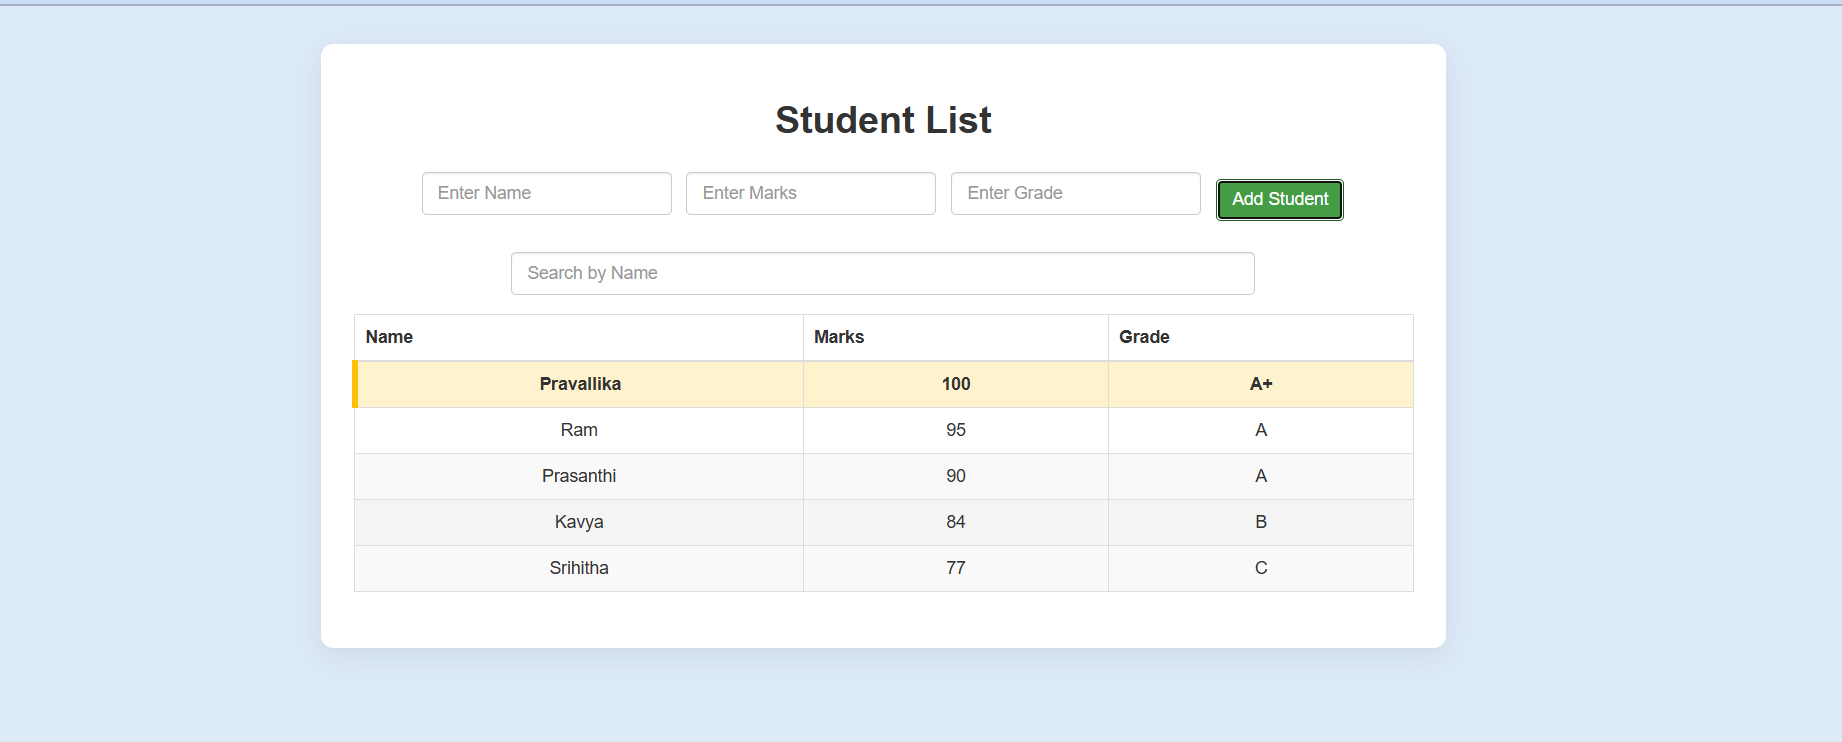
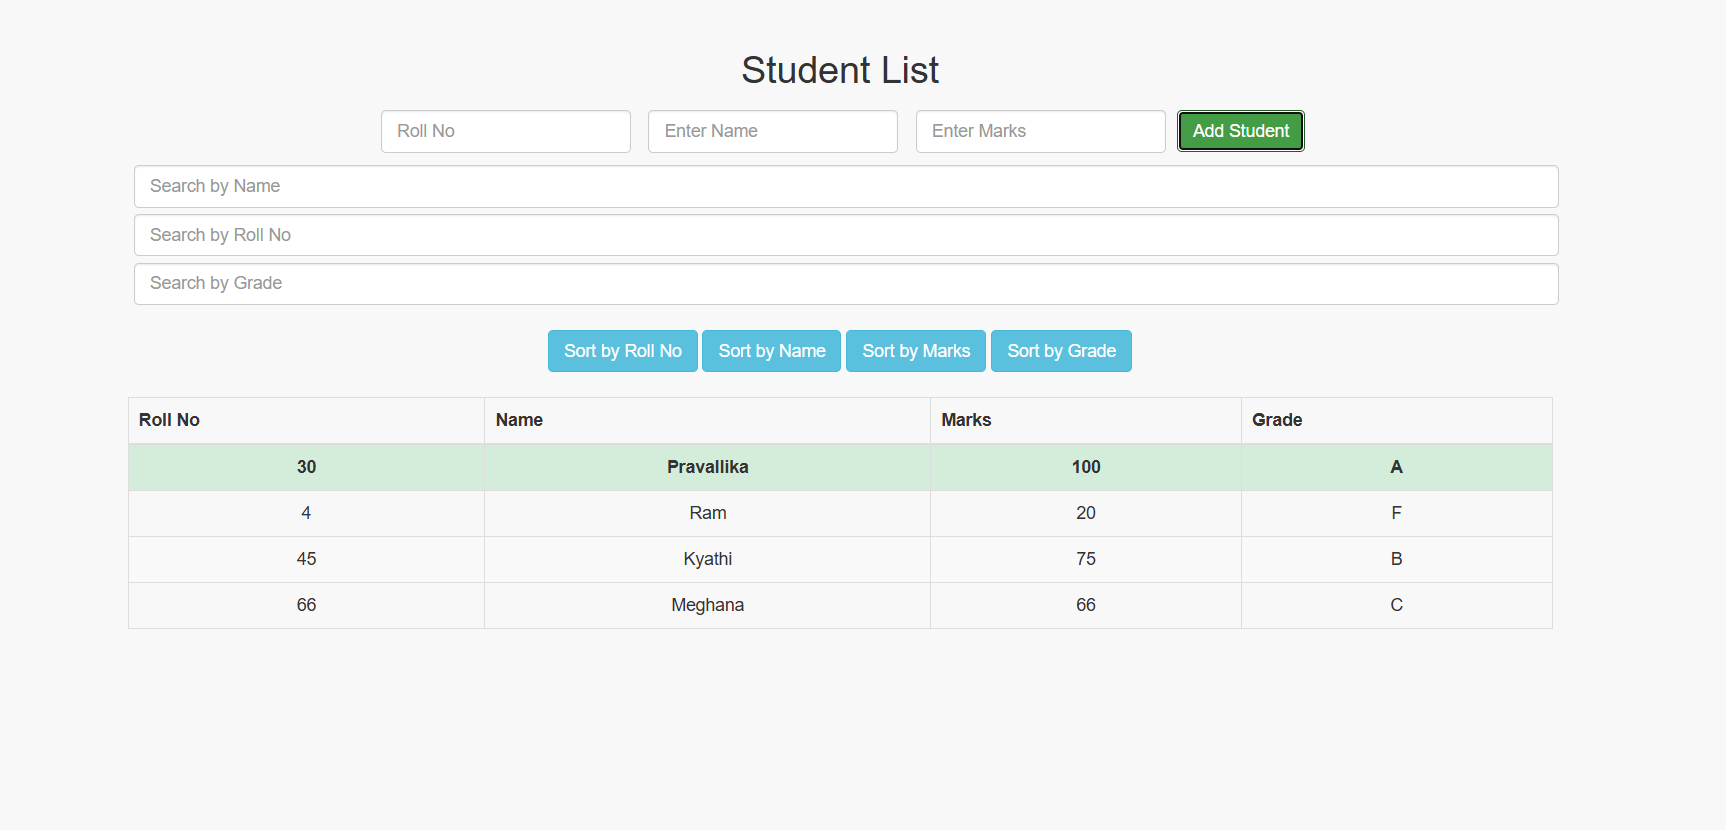
Updated search functionality with multiple field search

diff --git a/index.html b/index.html
@@ -22,9 +22,9 @@
 
     <!-- Search Filters -->
     <div class="text-center search-section">
-      <input type="text" class="form-control" placeholder="Search by Name" ng-model="searchText.name">
-      <input type="text" class="form-control" placeholder="Search by Roll No" ng-model="searchText.rollNo">
-      <input type="text" class="form-control" placeholder="Search by Grade" ng-model="searchText.grade">
+      <input type="text" class="form-control" placeholder="Search by Name" ng-model="searchName">
+      <input type="text" class="form-control" placeholder="Search by Roll No" ng-model="searchRoll">
+      <input type="text" class="form-control" placeholder="Search by Grade" ng-model="searchGrade">
     </div>
 
     <!-- Sorting Buttons -->
@@ -47,7 +47,7 @@
           </tr>
         </thead>
         <tbody>
-          <tr ng-repeat="student in (students | filter:searchText | orderBy: sortColumn : reverseSort) as filteredStudents"
+          <tr ng-repeat="student in students | filter:multiSearchFilter | orderBy:sortColumn:reverseSort"
               highlight-topper="student.marks === topMarks">
             <td>{{ student.rollNo }}</td>
             <td>{{ student.name }}</td>
@@ -56,10 +56,6 @@
           </tr>
         </tbody>
       </table>
-
-      <p class="text-center text-danger" ng-if="filteredStudents.length === 0">
-        No student found with that search criteria.
-      </p>
     </div>
 
     <p class="text-center text-muted" ng-if="students.length === 0">

diff --git a/app.js b/app.js
@@ -19,7 +19,6 @@ app.controller("StudentController", function($scope) {
   $scope.sortColumn = "rollNo";
   $scope.reverseSort = false;
   $scope.topMarks = null;
-  $scope.searchText = {};
 
   // Add Student
   $scope.addStudent = function() {
@@ -70,4 +69,17 @@ app.controller("StudentController", function($scope) {
   $scope.$watchCollection("students", function() {
     $scope.updateTopMarks();
   });
+
+  // Multi-field filter (shows results if any field matches)
+  $scope.multiSearchFilter = function(student) {
+    var nameMatch = $scope.searchName && student.name.toLowerCase().includes($scope.searchName.toLowerCase());
+    var rollMatch = $scope.searchRoll && student.rollNo.toString().includes($scope.searchRoll);
+    var gradeMatch = $scope.searchGrade && student.grade.toLowerCase().includes($scope.searchGrade.toLowerCase());
+
+    // Return true if any field matches (OR condition)
+    return (
+      !$scope.searchName && !$scope.searchRoll && !$scope.searchGrade ||
+      nameMatch || rollMatch || gradeMatch
+    );
+  };
 });
